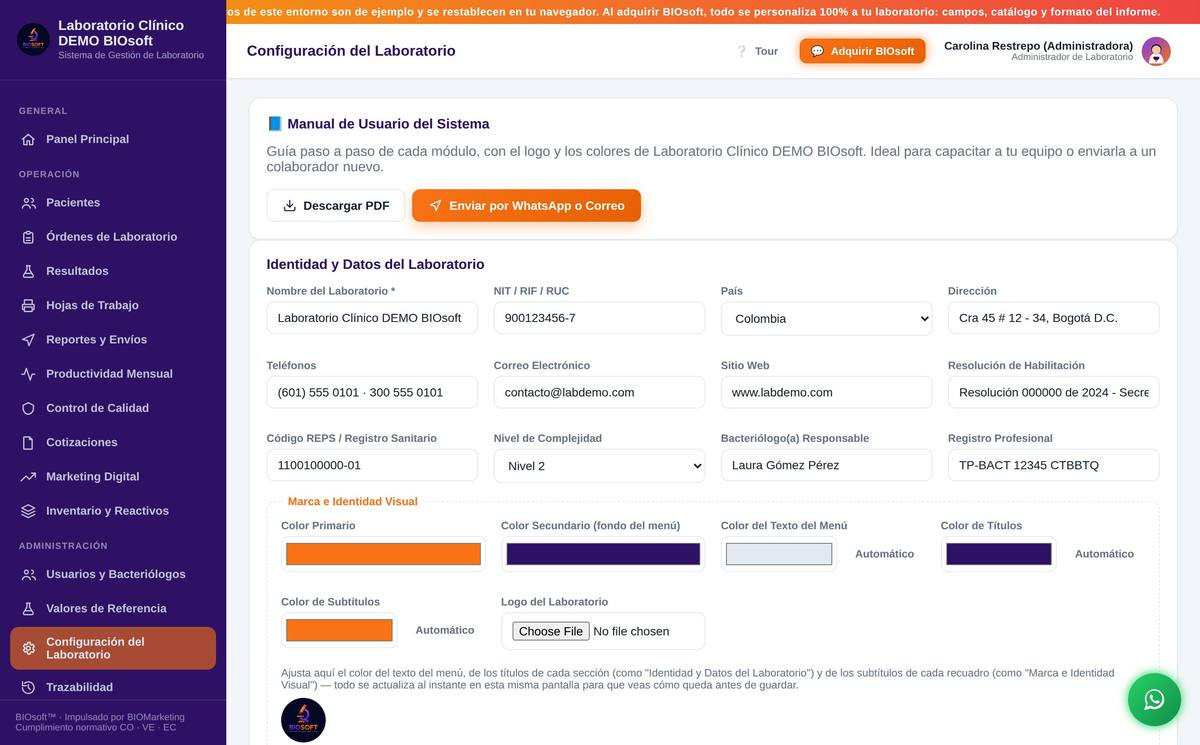
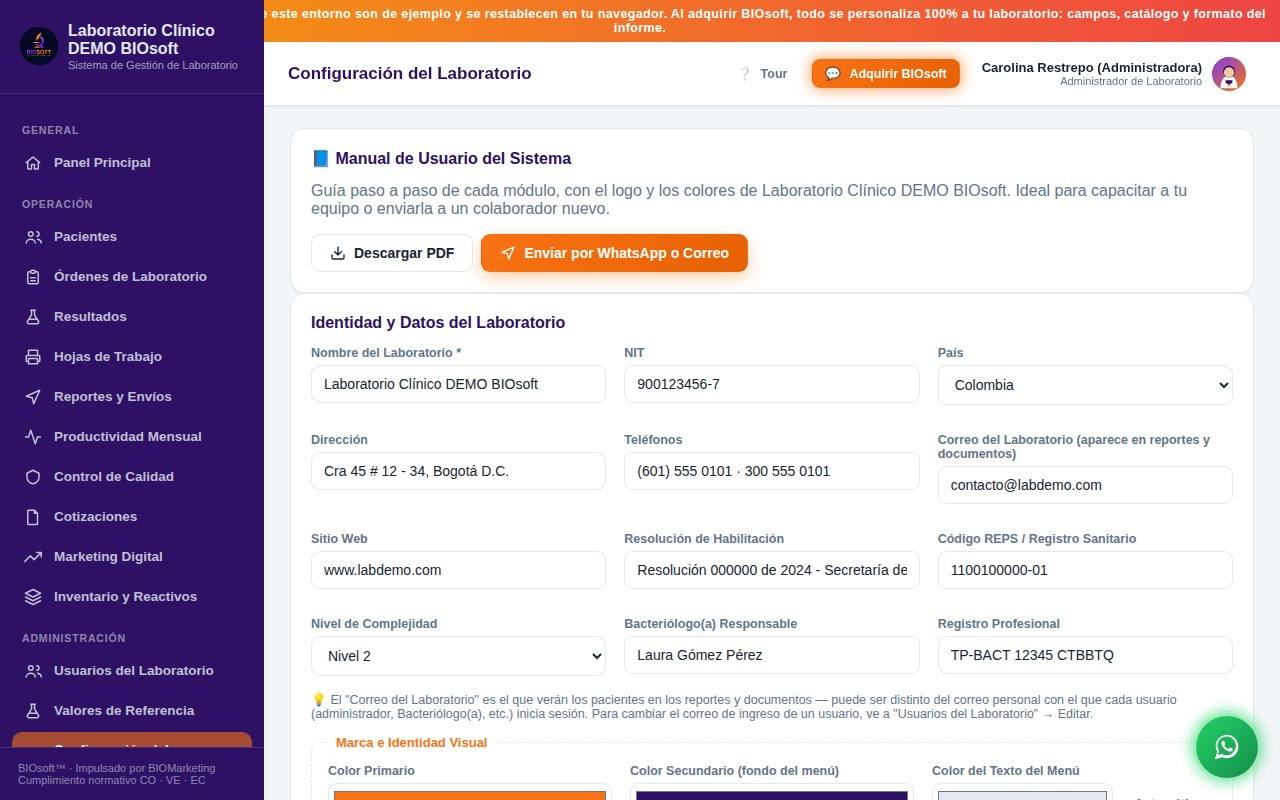
Actualizar el Manual de Usuario con las funciones nuevas y capturas reales de pantalla
- Se reordena el manual para que empiece por la configuración inicial
  (antes de las pantallas de uso diario), pensado para quien configura
  el sistema por primera vez.
- Nueva sección "Configuración Inicial de tu Laboratorio" (identidad,
  marca, clave de administrador y creación de usuarios), con capturas
  reales de la Configuración y de Usuarios del Laboratorio.
- Nueva sección "Personaliza tu Catálogo de Exámenes y Valores de
  Referencia" que documenta paso a paso todo lo agregado esta semana:
  renombrar exámenes, definir el método/técnica, crear exámenes y
  categorías propias, rangos por género/edad con categoría seleccionable
  (ej. fases hormonales) y Rangos de Interpretación por tramos de valor
  (ej. HbA1c) — con 5 capturas reales, incluyendo cómo se ve el selector
  de categoría al capturar un resultado.
- La sección de Cotizaciones ahora explica y muestra la moneda
  adicional del cotizador.
- El generador de PDF ahora admite varias capturas por sección, cada
  una con su propio pie de foto, en vez de una sola imagen fija.

Claude-Session: https://claude.ai/code/session_01VayszBDaL48z8jnjXMF22i

diff --git a/biosoft/js/pdf-manual.js b/biosoft/js/pdf-manual.js
@@ -9,10 +9,12 @@
     return [parseInt(hex.substring(0, 2), 16), parseInt(hex.substring(2, 4), 16), parseInt(hex.substring(4, 6), 16)];
   }
 
+  function img(src, caption) { return { src: src, caption: caption }; }
+
   var SECCIONES = [
     {
       titulo: "1. Ingresar al sistema",
-      imagen: "assets/manual/ingreso-login.jpg",
+      imagenes: [img("assets/manual/ingreso-login.jpg", "Pantalla de inicio de sesión")],
       intro: "Cada persona del equipo tiene su propio usuario y contraseña. Así queda registrado quién hizo cada acción.",
       pasos: [
         "Abre el enlace de BIOsoft de tu laboratorio en el navegador (funciona en computador, tablet o celular).",
@@ -22,8 +24,44 @@
       ]
     },
     {
-      titulo: "2. Pacientes",
-      imagen: "assets/manual/pacientes.jpg",
+      titulo: "2. Configuración Inicial de tu Laboratorio",
+      imagenes: [
+        img("assets/manual/configuracion.jpg", "Identidad, datos fiscales y marca visual de tu laboratorio"),
+        img("assets/manual/usuarios.jpg", "Usuarios del Laboratorio — el acceso de cada persona de tu equipo")
+      ],
+      intro: "Solo para Administradores: esto se hace UNA VEZ, antes de empezar a trabajar, para que todo el sistema (pantallas, PDF, informes) lleve la identidad de tu laboratorio.",
+      pasos: [
+        "Ve a “Configuración del Laboratorio” y completa Identidad y Datos: nombre, NIT/RIF/RUC, país, dirección, teléfonos, correo, sitio web, resolución de habilitación, código REPS y nivel de complejidad.",
+        "Sube tu logo y elige los colores institucionales (primario, secundario, texto del menú, títulos y subtítulos) — se aplican de inmediato a toda la app y a los PDF que genera el sistema.",
+        "Define la clave de administrador: se pedirá cada vez que un bacteriólogo necesite corregir un resultado ya validado, para mantener la trazabilidad.",
+        "Ve a “Usuarios del Laboratorio” y haz clic en “Nuevo Usuario” para crear el acceso de cada persona de tu equipo: nombre, usuario, contraseña y rol (Administrador, Bacteriólogo o Recepción).",
+        "Para cada Bacteriólogo(a), asígnale las secciones que puede capturar y validar (Hematología, Química Sanguínea, etc.) y carga su firma digital — aparecerá en los informes que valide.",
+        "Consejo: desde esta misma pantalla puedes descargar este Manual de Usuario en PDF o enviarlo por WhatsApp/correo a cualquier persona de tu equipo, ya con el logo y los colores de tu laboratorio."
+      ]
+    },
+    {
+      titulo: "3. Personaliza tu Catálogo de Exámenes y Valores de Referencia",
+      imagenes: [
+        img("assets/manual/catalogo-lista.jpg", "Busca, filtra o agrega exámenes y categorías nuevas"),
+        img("assets/manual/catalogo-editor-examen.jpg", "Cambia el nombre y agrega el método/técnica de cualquier examen"),
+        img("assets/manual/catalogo-rangos-genero-edad.jpg", "Rangos por género/edad con categoría — ideal para hormonas que varían según la fase (ej. FSH, LH)"),
+        img("assets/manual/catalogo-rangos-interpretacion.jpg", "Rangos de Interpretación — ej. Hemoglobina Glicosilada: Normal / Prediabetes / Diabetes"),
+        img("assets/manual/catalogo-captura-categoria.jpg", "Así se ve al capturar el resultado: aparece un selector para elegir qué categoría aplica")
+      ],
+      intro: "BIOsoft trae un catálogo completo de exámenes con sus valores de referencia estándar. Aquí lo ajustas exactamente a como trabaja tu laboratorio, sin afectar el catálogo general de BIOsoft — los cambios se aplican solo a tu cuenta.",
+      pasos: [
+        "Ve a “Valores de Referencia” y busca el examen por nombre o código CUPS, o filtra por sección.",
+        "Haz clic en “Editar” para cambiar el nombre con el que tu laboratorio conoce el examen, agregar el método/técnica que usas (ej. ELISA, Quimioluminiscencia) o ajustar el mínimo, máximo y texto de referencia de cada parámetro según tu equipo.",
+        "Si tu laboratorio procesa un examen que el catálogo no trae, usa “Agregar Examen Nuevo” para crearlo desde cero: nombre, sección, CUPS, muestra, tubo y todos los parámetros que necesites.",
+        "Si necesitas una categoría que no está en la lista (Hematología, Química Sanguínea, etc.), créala con “Nueva Categoría” — queda disponible de inmediato en órdenes, resultados, usuarios y reportes.",
+        "Para parámetros que varían según el sexo o la edad del paciente (ej. Hemoglobina distinta en hombres y mujeres), usa el botón “Por género/edad” y define cada rango — el sistema elige automáticamente el que corresponde a cada paciente.",
+        "Para casos donde el rango no se puede saber solo con el sexo/edad (ej. las fases del ciclo menstrual en hormonas como FSH o LH), ponle una Etiqueta a cada rango (Fase Folicular, Ovulación, Lútea…). Al capturar el resultado, el sistema mostrará un selector para elegir cuál corresponde a esa paciente.",
+        "Para exámenes con interpretación por tramos en vez del simple Bajo/Normal/Alto (ej. Hemoglobina Glicosilada: Normal / Prediabetes / Diabetes), usa el botón “Rangos de Interpretación” y define cada tramo con su propia etiqueta — se aplica solo según el valor que se capture."
+      ]
+    },
+    {
+      titulo: "4. Pacientes",
+      imagenes: [img("assets/manual/pacientes.jpg")],
       intro: "Aquí se registran los datos de cada paciente, una sola vez, para reutilizarlos en todas sus órdenes futuras.",
       pasos: [
         "Ve a “Pacientes” en el menú lateral y haz clic en “Nuevo Paciente”.",
@@ -33,33 +71,34 @@
       ]
     },
     {
-      titulo: "3. Órdenes de Laboratorio",
-      imagen: "assets/manual/ordenes.jpg",
+      titulo: "5. Órdenes de Laboratorio",
+      imagenes: [img("assets/manual/ordenes.jpg")],
       intro: "Una orden agrupa los exámenes que un paciente va a realizarse en una visita.",
       pasos: [
         "Ve a “Órdenes de Laboratorio” y haz clic en “Nueva Orden”.",
         "Selecciona el paciente (o créalo si es la primera vez que viene).",
-        "Elige los exámenes por sección desde el catálogo (Hematología, Química, Inmunología, etc.); puedes buscar por nombre.",
+        "Elige los exámenes por sección desde el catálogo (Hematología, Química, Inmunología, etc., incluyendo las categorías y exámenes propios que hayas agregado); puedes buscar por nombre.",
         "Registra el médico remitente y la procedencia si aplica.",
         "Guarda la orden — automáticamente queda disponible en la bandeja de cada bacteriólogo, según la sección de cada examen.",
         "Desde aquí también puedes imprimir el sticker de identificación para los tubos de muestra."
       ]
     },
     {
-      titulo: "4. Resultados (Bandeja de Trabajo)",
-      imagen: "assets/manual/resultados.jpg",
+      titulo: "6. Resultados (Bandeja de Trabajo)",
+      imagenes: [img("assets/manual/resultados.jpg")],
       intro: "Cada bacteriólogo ve solo los exámenes de sus secciones asignadas, listos para capturar resultados.",
       pasos: [
         "Ve a “Resultados” — verás la lista de exámenes pendientes de tu sección.",
         "Abre un examen y digita los valores; el sistema muestra automáticamente el valor de referencia de cada parámetro.",
+        "Si el parámetro tiene varios rangos que podrían aplicar (ej. las fases del ciclo menstrual — ver sección 3), aparecerá un selector para elegir cuál corresponde a ese resultado; la elección queda guardada.",
         "Guarda como “Borrador” si aún no está listo, “Preliminar” si quieres adelantarlo al paciente, o “Validado” cuando esté definitivo.",
         "Al validar, el resultado queda firmado electrónicamente con tu nombre, fecha y hora — no se puede editar sin la clave de administrador.",
         "Si un resultado validado necesita corrección, un Administrador debe ingresar la clave de administrador; la corrección queda registrada en la Trazabilidad."
       ]
     },
     {
-      titulo: "5. Hojas de Trabajo",
-      imagen: "assets/manual/hojas-trabajo.jpg",
+      titulo: "7. Hojas de Trabajo",
+      imagenes: [img("assets/manual/hojas-trabajo.jpg")],
       intro: "Listas diarias de los exámenes pendientes por sección, ideales para el trabajo en el laboratorio o para imprimir.",
       pasos: [
         "Ve a “Hojas de Trabajo” y elige la fecha y la sección que quieres revisar.",
@@ -68,8 +107,8 @@
       ]
     },
     {
-      titulo: "6. Reportes y Envíos",
-      imagen: "assets/manual/reportes.jpg",
+      titulo: "8. Reportes y Envíos",
+      imagenes: [img("assets/manual/reportes.jpg")],
       intro: "Desde aquí se genera el informe en PDF con la marca de tu laboratorio y se envía al paciente.",
       pasos: [
         "Ve a “Reportes y Envíos” y busca la orden del paciente.",
@@ -79,8 +118,8 @@
       ]
     },
     {
-      titulo: "7. Control de Calidad",
-      imagen: "assets/manual/control-calidad.jpg",
+      titulo: "9. Control de Calidad",
+      imagenes: [img("assets/manual/control-calidad.jpg")],
       intro: "Permite llevar el control diario de los controles de calidad de cada analito, con alertas automáticas si algo se sale de rango (reglas de Westgard).",
       pasos: [
         "Ve a “Control de Calidad” y configura los controles (niveles, valores esperados) por analito, una sola vez.",
@@ -90,46 +129,39 @@
       ]
     },
     {
-      titulo: "8. Cotizaciones",
-      imagen: "assets/manual/cotizador.jpg",
+      titulo: "10. Cotizaciones",
+      imagenes: [
+        img("assets/manual/cotizador.jpg", "Nueva Cotización — selección rápida de exámenes con total automático"),
+        img("assets/manual/cotizador-moneda.jpg", "Activa una moneda adicional (ej. USD) para tus clientes, junto a tu moneda principal")
+      ],
       intro: "Genera cotizaciones profesionales en PDF para pacientes particulares o empresas, antes de crear la orden.",
       pasos: [
         "Ve a “Cotizaciones” y haz clic en “Nueva Cotización”.",
         "Selecciona los exámenes desde el buscador rápido; el sistema calcula el total automáticamente según tu lista de precios.",
+        "En “Lista de Precios” puedes activar una moneda adicional (ej. dólares) con su tasa de cambio — se muestra junto al total en cotizaciones, recibos e historial, sin reemplazar tu moneda principal.",
         "Genera el PDF y envíalo por WhatsApp o correo directamente desde la pantalla.",
         "Consulta el historial de cotizaciones enviadas en cualquier momento."
       ]
     },
     {
-      titulo: "9. Marketing Digital",
-      imagen: "assets/manual/marketing-remarketing.jpg",
+      titulo: "11. Marketing Digital",
+      imagenes: [img("assets/manual/marketing-remarketing.jpg")],
       intro: "Módulo con Inteligencia Artificial para ayudarte a conseguir y recuperar pacientes.",
       pasos: [
-        "Ve a “Marketing Digital” → “Remarketing con IA” para ver sugerencias automáticas de pacientes a contactar (por ejemplo, quienes no vuelven hace tiempo).",
+        "Ve a “Marketing Digital” y entra a “Remarketing con IA” para ver sugerencias automáticas de pacientes a contactar (por ejemplo, quienes no vuelven hace tiempo).",
         "Configura tus propias reglas de recall (a los cuántos días recontactar a un paciente según el tipo de examen).",
         "Usa el “Creador de Imágenes” para generar piezas gráficas listas para redes sociales, con el logo de tu laboratorio."
       ]
     },
     {
-      titulo: "10. Inventario y Reactivos",
-      imagen: "assets/manual/inventario.jpg",
+      titulo: "12. Inventario y Reactivos",
+      imagenes: [img("assets/manual/inventario.jpg")],
       intro: "Kardex profesional para controlar tus insumos, su costo y el gasto real por cada examen realizado.",
       pasos: [
-        "Ve a “Inventario y Reactivos” → “Insumos” y registra cada reactivo/insumo con su stock y costo.",
-        "En “Recetas por Examen”, indica cuánto se gasta de cada insumo al realizar cada tipo de examen.",
+        "Ve a “Inventario y Reactivos” y entra a “Insumos” para registrar cada reactivo/insumo con su stock y costo.",
+        "En “Recetas por Examen”, indica cuánto se gasta de cada insumo al realizar cada tipo de examen (disponible para los exámenes del catálogo general).",
         "A partir de ahí, el sistema descuenta el inventario automáticamente cada vez que se valida un resultado — no necesitas hacerlo manual.",
         "Consulta el “Kardex” para ver cada movimiento de entrada/salida, y descarga los reportes de gasto de reactivos e inventario valorizado en PDF."
-      ]
-    },
-    {
-      titulo: "11. Configuración del Laboratorio",
-      imagen: "assets/manual/configuracion.jpg",
-      intro: "Solo para Administradores: aquí se personaliza el sistema con la identidad de tu laboratorio.",
-      pasos: [
-        "Ve a “Configuración del Laboratorio” para actualizar nombre, NIT, dirección, teléfonos y resolución de habilitación.",
-        "Sube el logo y define los colores institucionales — se aplican automáticamente a toda la app y a los PDF.",
-        "Define o cambia la clave de administrador, necesaria para autorizar correcciones de resultados ya validados.",
-        "En “Usuarios del Laboratorio”, crea el acceso de cada persona del equipo y asígnale sus secciones y firma digital."
       ]
     }
   ];
@@ -171,22 +203,32 @@
   function cargarImagen(url) {
     return new Promise(function (resolve) {
       if (!url) { resolve(null); return; }
-      var img = new Image();
-      img.onload = function () { resolve(img); };
-      img.onerror = function () { resolve(null); };
-      img.src = url;
+      var image = new Image();
+      image.onload = function () { resolve(image); };
+      image.onerror = function () { resolve(null); };
+      image.src = url;
     });
   }
 
   function buildManualPDF(tenant) {
-    return Promise.all(SECCIONES.map(function (s) { return cargarImagen(s.imagen); })).then(function (imagenes) {
+    // Cada sección puede traer varias capturas de pantalla — se precargan
+    // todas de una vez, en paralelo, respetando a qué sección/posición
+    // pertenece cada una para poder recuperarlas después.
+    var tareas = [];
+    SECCIONES.forEach(function (s, si) {
+      s.imagenes.forEach(function (im, ii) { tareas.push({ si: si, ii: ii, promesa: cargarImagen(im.src) }); });
+    });
+    return Promise.all(tareas.map(function (t) { return t.promesa; })).then(function (resultados) {
+      var imagenesPorSeccion = SECCIONES.map(function () { return []; });
+      tareas.forEach(function (t, idx) { imagenesPorSeccion[t.si][t.ii] = resultados[idx]; });
+
       var jsPDFCtor = window.jspdf ? window.jspdf.jsPDF : window.jsPDF;
       var doc = new jsPDFCtor({ unit: "pt", format: "letter" });
       var margin = 50, pageW = doc.internal.pageSize.getWidth(), maxW = pageW - margin * 2;
       var rgb = hexToRgb(tenant.colorPrimario);
 
       // ---------- Portada ----------
-      var y = 150;
+      var y = 130;
       if (tenant.logoDataUrl) {
         try { doc.addImage(tenant.logoDataUrl, "PNG", pageW / 2 - 35, y, 70, 70); } catch (e) {}
         y += 90;
@@ -197,13 +239,13 @@
       doc.text(tenant.nombre || "Tu Laboratorio", pageW / 2, y, { align: "center" }); y += 40;
       doc.setFont("helvetica", "normal"); doc.setFontSize(10); doc.setTextColor(90, 90, 90);
       var intro = doc.splitTextToSize(
-        "Esta guía explica paso a paso cómo usar cada módulo del sistema BIOsoft, con capturas reales de pantalla, para que cualquier persona de tu equipo — sin experiencia previa en el software — pueda aprender a usarlo en minutos.",
-        maxW - 80
+        "Esta guía explica paso a paso cómo usar cada módulo del sistema BIOsoft, con capturas reales de pantalla, para que cualquier persona de tu equipo — sin experiencia previa en el software — pueda aprender a usarlo en minutos. Si es la primera vez que configuras tu laboratorio, empieza por la sección 2.",
+        maxW - 60
       );
-      doc.text(intro, pageW / 2, y, { align: "center" }); y += intro.length * 14 + 30;
+      doc.text(intro, pageW / 2, y, { align: "center" }); y += intro.length * 14 + 26;
 
       doc.setFont("helvetica", "bold"); doc.setFontSize(11); doc.setTextColor(20, 20, 20);
-      doc.text("Contenido", pageW / 2, y, { align: "center" }); y += 18;
+      doc.text("Contenido", pageW / 2, y, { align: "center" }); y += 20;
       doc.setFont("helvetica", "normal"); doc.setFontSize(9.5); doc.setTextColor(60, 60, 60);
       SECCIONES.forEach(function (s) {
         doc.text(s.titulo, pageW / 2, y, { align: "center" }); y += 15;
@@ -242,21 +284,23 @@
           y2 += lines.length * 13 + 8;
         });
 
-        var img = imagenes[idx];
-        if (img && img.naturalWidth) {
-          var imgW = maxW, imgH = imgW * (img.naturalHeight / img.naturalWidth);
-          var maxImgH = 250;
-          if (imgH > maxImgH) { imgH = maxImgH; imgW = imgH * (img.naturalWidth / img.naturalHeight); }
-          checkPage(imgH + 34);
+        var imagenesSeccion = imagenesPorSeccion[idx] || [];
+        imagenesSeccion.forEach(function (imagen, ii) {
+          if (!imagen || !imagen.naturalWidth) return;
+          var imgW = maxW, imgH = imgW * (imagen.naturalHeight / imagen.naturalWidth);
+          var maxImgH = 230;
+          if (imgH > maxImgH) { imgH = maxImgH; imgW = imgH * (imagen.naturalWidth / imagen.naturalHeight); }
+          checkPage(imgH + 40);
+          var caption = (seccion.imagenes[ii] && seccion.imagenes[ii].caption) || "Así se ve en el sistema:";
           doc.setFont("helvetica", "italic"); doc.setFontSize(8.5); doc.setTextColor(130, 130, 130);
-          doc.text("Así se ve en el sistema:", margin, y2);
+          doc.text(caption, margin, y2);
           y2 += 10;
           var xImg = margin + (maxW - imgW) / 2;
           doc.setDrawColor(225, 225, 225); doc.setLineWidth(0.7);
           doc.rect(xImg - 2, y2 - 2, imgW + 4, imgH + 4);
-          try { doc.addImage(img, "JPEG", xImg, y2, imgW, imgH); } catch (e) {}
-          y2 += imgH + 16;
-        }
+          try { doc.addImage(imagen, "JPEG", xImg, y2, imgW, imgH); } catch (e) {}
+          y2 += imgH + 18;
+        });
         piePagina(doc, margin);
       });
 

diff --git a/biosoft/app.html b/biosoft/app.html
@@ -140,7 +140,7 @@
   <script src="js/pdf-cotizacion.js?v=5"></script>
   <script src="js/pdf-recibo-cotizacion.js?v=3"></script>
   <script src="js/pdf-inventario.js?v=2"></script>
-  <script src="js/pdf-manual.js?v=3"></script>
+  <script src="js/pdf-manual.js?v=4"></script>
   <script src="js/views-dashboard-patients.js?v=5"></script>
   <script src="js/views-productividad.js?v=2"></script>
   <script src="js/views-orders.js?v=4"></script>
